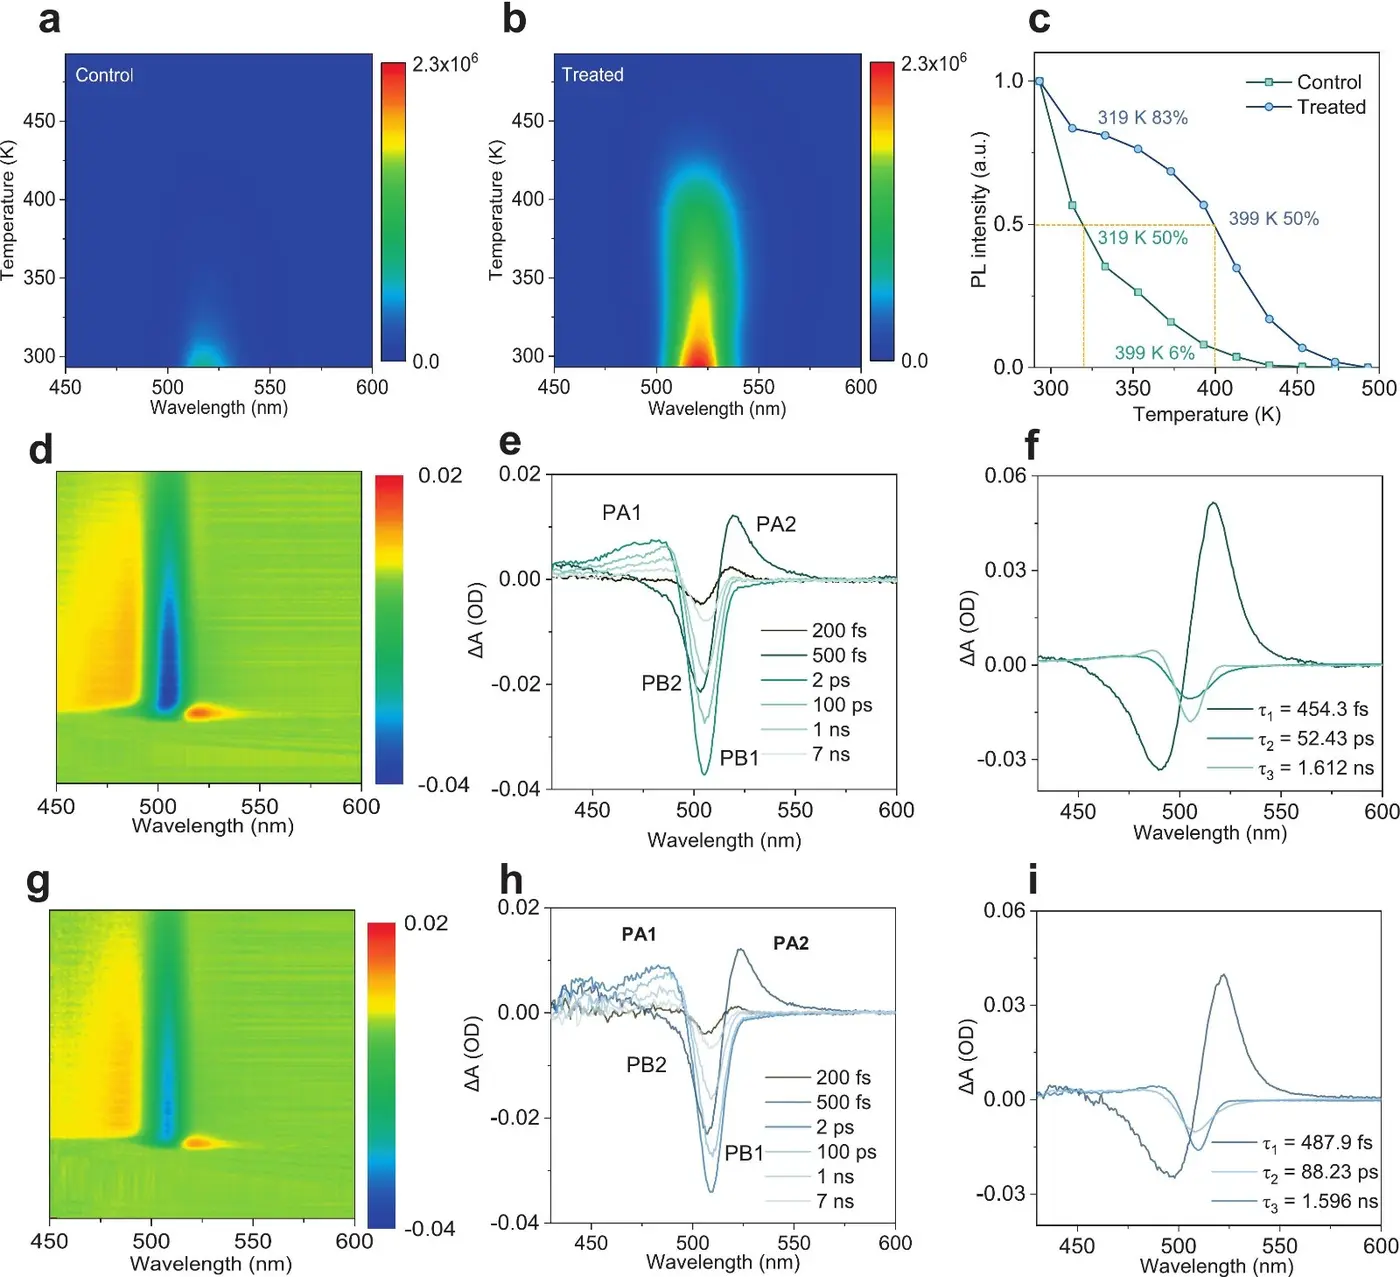
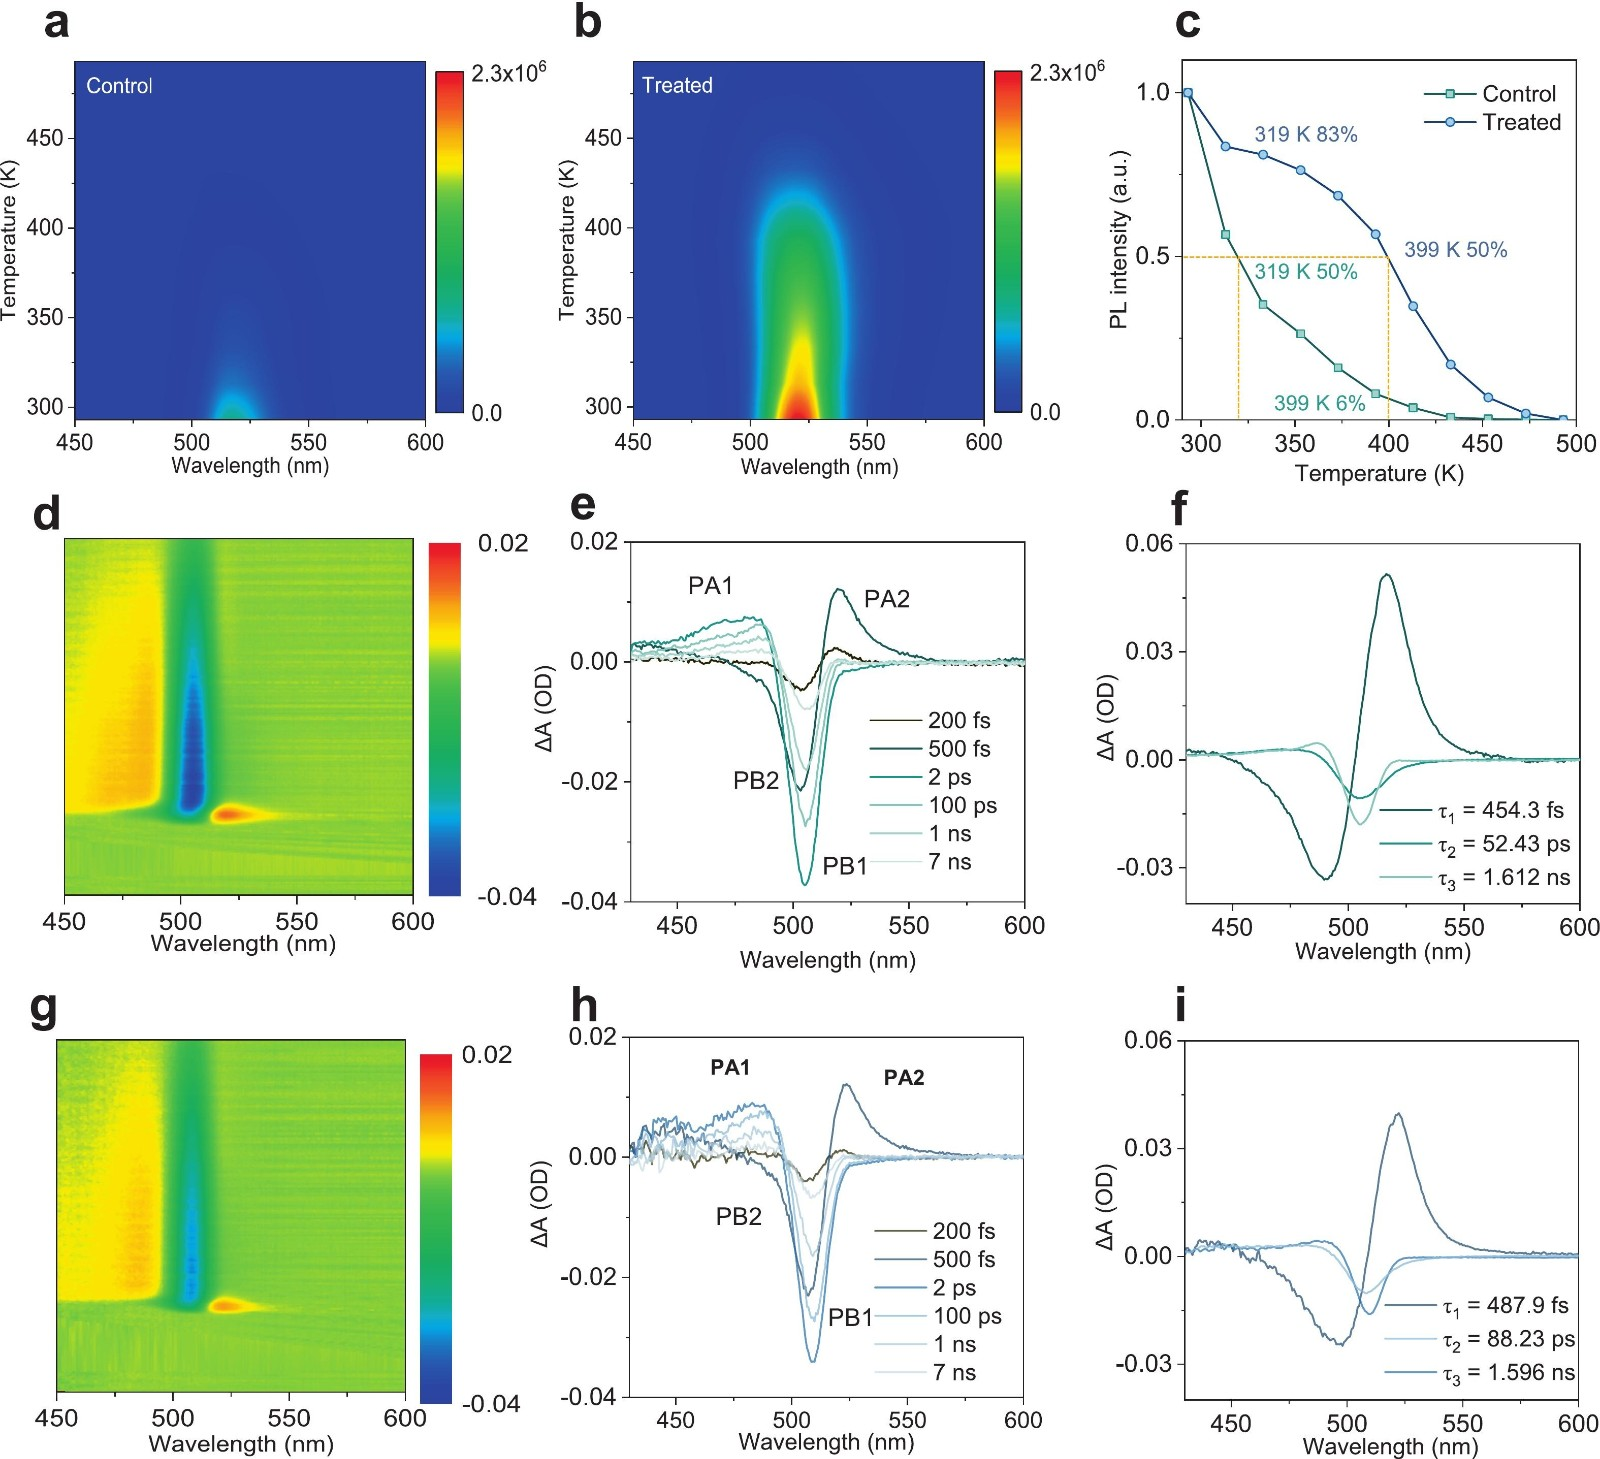
Deploying to gh-pages from @ Liya208/YingweiWang@ba40723b8ccee07f89f315543a2d829645db11bd 🚀

diff --git a/blog/2024/tabs/index.html b/blog/2024/tabs/index.html
@@ -15,15 +15,15 @@ Content 2
 <span class="cp">{%</span><span class="w"> </span><span class="nt">endtab</span><span class="w"> </span><span class="cp">%}</span>
 
 <span class="cp">{%</span><span class="w"> </span><span class="nt">endtabs</span><span class="w"> </span><span class="cp">%}</span>
-</code></pre></div></div> <p>With this you can generate visualizations like:</p> <ul id="log" class="tab" data-tab="b6cef5e6-4026-4e7b-b38a-d35c8b092e7a" data-name="log"> <li class="active" id="log-php"> <a href="#">php </a> </li> <li id="log-js"> <a href="#">js </a> </li> <li id="log-ruby"> <a href="#">ruby </a> </li> </ul> <ul class="tab-content" id="b6cef5e6-4026-4e7b-b38a-d35c8b092e7a" data-name="log"> <li class="active"> <div class="language-php highlighter-rouge"><div class="highlight"><pre class="highlight"><code><span class="nb">var_dump</span><span class="p">(</span><span class="s1">'hello'</span><span class="p">);</span>
+</code></pre></div></div> <p>With this you can generate visualizations like:</p> <ul id="log" class="tab" data-tab="8da1da86-ea60-49c8-870a-034587ede48d" data-name="log"> <li class="active" id="log-php"> <a href="#">php </a> </li> <li id="log-js"> <a href="#">js </a> </li> <li id="log-ruby"> <a href="#">ruby </a> </li> </ul> <ul class="tab-content" id="8da1da86-ea60-49c8-870a-034587ede48d" data-name="log"> <li class="active"> <div class="language-php highlighter-rouge"><div class="highlight"><pre class="highlight"><code><span class="nb">var_dump</span><span class="p">(</span><span class="s1">'hello'</span><span class="p">);</span>
 </code></pre></div></div> </li> <li> <div class="language-javascript highlighter-rouge"><div class="highlight"><pre class="highlight"><code><span class="nx">console</span><span class="p">.</span><span class="nf">log</span><span class="p">(</span><span class="dl">"</span><span class="s2">hello</span><span class="dl">"</span><span class="p">);</span>
 </code></pre></div></div> </li> <li> <div class="language-javascript highlighter-rouge"><div class="highlight"><pre class="highlight"><code><span class="nx">pputs</span> <span class="dl">'</span><span class="s1">hello</span><span class="dl">'</span>
-</code></pre></div></div> </li> </ul> <h2 id="another-example">Another example</h2> <ul id="data-struct" class="tab" data-tab="bff271ce-6c00-464e-86ad-fde5a4f83c1d" data-name="data-struct"> <li class="active" id="data-struct-yaml"> <a href="#">yaml </a> </li> <li id="data-struct-json"> <a href="#">json </a> </li> </ul> <ul class="tab-content" id="bff271ce-6c00-464e-86ad-fde5a4f83c1d" data-name="data-struct"> <li class="active"> <div class="language-yaml highlighter-rouge"><div class="highlight"><pre class="highlight"><code><span class="na">hello</span><span class="pi">:</span>
+</code></pre></div></div> </li> </ul> <h2 id="another-example">Another example</h2> <ul id="data-struct" class="tab" data-tab="e573564c-eb79-4e93-90dd-2582ef78ecd2" data-name="data-struct"> <li class="active" id="data-struct-yaml"> <a href="#">yaml </a> </li> <li id="data-struct-json"> <a href="#">json </a> </li> </ul> <ul class="tab-content" id="e573564c-eb79-4e93-90dd-2582ef78ecd2" data-name="data-struct"> <li class="active"> <div class="language-yaml highlighter-rouge"><div class="highlight"><pre class="highlight"><code><span class="na">hello</span><span class="pi">:</span>
   <span class="pi">-</span> <span class="s2">"</span><span class="s">whatsup"</span>
   <span class="pi">-</span> <span class="s2">"</span><span class="s">hi"</span>
 </code></pre></div></div> </li> <li> <div class="language-json highlighter-rouge"><div class="highlight"><pre class="highlight"><code><span class="p">{</span><span class="w">
   </span><span class="nl">"hello"</span><span class="p">:</span><span class="w"> </span><span class="p">[</span><span class="s2">"whatsup"</span><span class="p">,</span><span class="w"> </span><span class="s2">"hi"</span><span class="p">]</span><span class="w">
 </span><span class="p">}</span><span class="w">
-</span></code></pre></div></div> </li> </ul> <h2 id="tabs-for-something-else">Tabs for something else</h2> <ul id="something-else" class="tab" data-tab="930baf4d-10f4-4b97-850c-4200c7653ab7" data-name="something-else"> <li class="active" id="something-else-text"> <a href="#">text </a> </li> <li id="something-else-quote"> <a href="#">quote </a> </li> <li id="something-else-list"> <a href="#">list </a> </li> </ul> <ul class="tab-content" id="930baf4d-10f4-4b97-850c-4200c7653ab7" data-name="something-else"> <li class="active"> <p>Regular text</p> </li> <li> <blockquote> <p>A quote</p> </blockquote> </li> <li> <p>Hipster list</p> <ul> <li>brunch</li> <li>fixie</li> <li>raybans</li> <li>messenger bag</li> </ul> </li> </ul> </div> </article> <br> <hr> <br> <ul class="list-disc pl-8"></ul> <h2 class="text-3xl font-semibold mb-4 mt-12">Enjoy Reading This Article?</h2> <p class="mb-2">Here are some more articles you might like to read next:</p> <li class="my-2"> <a class="text-pink-700 underline font-semibold hover:text-pink-800" href="https://blog.google/technology/ai/google-gemini-update-flash-ai-assistant-io-2024/" target="_blank" rel="external nofollow noopener">Google Gemini updates: Flash 1.5, Gemma 2 and Project Astra</a> <svg width="1rem" height="1rem" viewbox="0 0 30 30" xmlns="http://www.w3.org/2000/svg"> <path d="M17 13.5v6H5v-12h6m3-3h6v6m0-6-9 9" class="icon_svg-stroke" stroke="#999" stroke-width="1.5" fill="none" fill-rule="evenodd" stroke-linecap="round" stroke-linejoin="round"></path> </svg> </li> <li class="my-2"> <a class="text-pink-700 underline font-semibold hover:text-pink-800" href="https://medium.com/@al-folio/displaying-external-posts-on-your-al-folio-blog-b60a1d241a0a?source=rss-17feae71c3c4------2" target="_blank" rel="external nofollow noopener">Displaying External Posts on Your al-folio Blog</a> <svg width="1rem" height="1rem" viewbox="0 0 30 30" xmlns="http://www.w3.org/2000/svg"> <path d="M17 13.5v6H5v-12h6m3-3h6v6m0-6-9 9" class="icon_svg-stroke" stroke="#999" stroke-width="1.5" fill="none" fill-rule="evenodd" stroke-linecap="round" stroke-linejoin="round"></path> </svg> </li> <li class="my-2"> <a class="text-pink-700 underline font-semibold hover:text-pink-800" href="/YingweiWang/blog/2026/advanced-images/">Welcome NSFC Distinguished Young Scholar Pan Shilie to CSU Physics Forum!</a> </li> <li class="my-2"> <a class="text-pink-700 underline font-semibold hover:text-pink-800" href="/YingweiWang/blog/2025/plotly/">a post with plotly.js</a> </li> <li class="my-2"> <a class="text-pink-700 underline font-semibold hover:text-pink-800" href="/YingweiWang/blog/2024/photo-gallery/">a post with image galleries</a> </li> </div> </div> <footer class="fixed-bottom" role="contentinfo"> <div class="container mt-0"> © Copyright 2026 Yingwei Wang. © 2026 Ultrafast Nonlinear Optics Research Group. Powered by Jekyll and al-folio. </div> </footer> <script src="https://cdn.jsdelivr.net/npm/jquery@3.6.0/dist/jquery.min.js" integrity="sha256-/xUj+3OJU5yExlq6GSYGSHk7tPXikynS7ogEvDej/m4=" crossorigin="anonymous"></script> <script src="/YingweiWang/assets/js/bootstrap.bundle.min.js"></script> <script src="https://cdn.jsdelivr.net/npm/mdbootstrap@4.20.0/js/mdb.min.js" integrity="sha256-NdbiivsvWt7VYCt6hYNT3h/th9vSTL4EDWeGs5SN3DA=" crossorigin="anonymous"></script> <script defer src="https://cdn.jsdelivr.net/npm/masonry-layout@4.2.2/dist/masonry.pkgd.min.js" integrity="sha256-Nn1q/fx0H7SNLZMQ5Hw5JLaTRZp0yILA/FRexe19VdI=" crossorigin="anonymous"></script> <script defer src="https://cdn.jsdelivr.net/npm/imagesloaded@5.0.0/imagesloaded.pkgd.min.js" integrity="sha256-htrLFfZJ6v5udOG+3kNLINIKh2gvoKqwEhHYfTTMICc=" crossorigin="anonymous"></script> <script defer src="/YingweiWang/assets/js/masonry.js?v=a0db7e5d5c70cc3252b3138b0c91dcaf" type="text/javascript"></script> <script defer src="https://cdn.jsdelivr.net/npm/medium-zoom@1.1.0/dist/medium-zoom.min.js" integrity="sha256-ZgMyDAIYDYGxbcpJcfUnYwNevG/xi9OHKaR/8GK+jWc=" crossorigin="anonymous"></script> <script defer src="/YingweiWang/assets/js/zoom.js?v=85ddb88934d28b74e78031fd54cf8308"></script> <script src="/YingweiWang/assets/js/no_defer.js?v=2781658a0a2b13ed609542042a859126"></script> <script defer src="/YingweiWang/assets/js/common.js?v=c15de51d4bb57887caa2c21988d97279"></script> <script defer src="/YingweiWang/assets/js/copy_code.js?v=c8a01c11a92744d44b093fc3bda915df" type="text/javascript"></script> <script defer src="/YingweiWang/assets/js/jupyter_new_tab.js?v=d9f17b6adc2311cbabd747f4538bb15f"></script> <script async src="https://d1bxh8uas1mnw7.cloudfront.net/assets/embed.js"></script> <script async src="https://badge.dimensions.ai/badge.js"></script> <script defer type="text/javascript" id="MathJax-script" src="https://cdn.jsdelivr.net/npm/mathjax@3.2.2/es5/tex-mml-chtml.js" integrity="sha256-MASABpB4tYktI2Oitl4t+78w/lyA+D7b/s9GEP0JOGI=" crossorigin="anonymous"></script> <script src="/YingweiWang/assets/js/mathjax-setup.js?v=a5bb4e6a542c546dd929b24b8b236dfd"></script> <script defer src="https://cdnjs.cloudflare.com/polyfill/v3/polyfill.min.js?features=es6" crossorigin="anonymous"></script> <script defer src="/YingweiWang/assets/js/progress-bar.js?v=2f30e0e6801ea8f5036fa66e1ab0a71a" type="text/javascript"></script> <script src="/YingweiWang/assets/js/tabs.min.js?v=b8748955e1076bbe0dabcf28f2549fdc"></script> <script src="/YingweiWang/assets/js/vanilla-back-to-top.min.js?v=f40d453793ff4f64e238e420181a1d17"></script> <script>
+</span></code></pre></div></div> </li> </ul> <h2 id="tabs-for-something-else">Tabs for something else</h2> <ul id="something-else" class="tab" data-tab="21da8b8b-6dea-436d-8a1d-3ea70c09b242" data-name="something-else"> <li class="active" id="something-else-text"> <a href="#">text </a> </li> <li id="something-else-quote"> <a href="#">quote </a> </li> <li id="something-else-list"> <a href="#">list </a> </li> </ul> <ul class="tab-content" id="21da8b8b-6dea-436d-8a1d-3ea70c09b242" data-name="something-else"> <li class="active"> <p>Regular text</p> </li> <li> <blockquote> <p>A quote</p> </blockquote> </li> <li> <p>Hipster list</p> <ul> <li>brunch</li> <li>fixie</li> <li>raybans</li> <li>messenger bag</li> </ul> </li> </ul> </div> </article> <br> <hr> <br> <ul class="list-disc pl-8"></ul> <h2 class="text-3xl font-semibold mb-4 mt-12">Enjoy Reading This Article?</h2> <p class="mb-2">Here are some more articles you might like to read next:</p> <li class="my-2"> <a class="text-pink-700 underline font-semibold hover:text-pink-800" href="https://blog.google/technology/ai/google-gemini-update-flash-ai-assistant-io-2024/" target="_blank" rel="external nofollow noopener">Google Gemini updates: Flash 1.5, Gemma 2 and Project Astra</a> <svg width="1rem" height="1rem" viewbox="0 0 30 30" xmlns="http://www.w3.org/2000/svg"> <path d="M17 13.5v6H5v-12h6m3-3h6v6m0-6-9 9" class="icon_svg-stroke" stroke="#999" stroke-width="1.5" fill="none" fill-rule="evenodd" stroke-linecap="round" stroke-linejoin="round"></path> </svg> </li> <li class="my-2"> <a class="text-pink-700 underline font-semibold hover:text-pink-800" href="https://medium.com/@al-folio/displaying-external-posts-on-your-al-folio-blog-b60a1d241a0a?source=rss-17feae71c3c4------2" target="_blank" rel="external nofollow noopener">Displaying External Posts on Your al-folio Blog</a> <svg width="1rem" height="1rem" viewbox="0 0 30 30" xmlns="http://www.w3.org/2000/svg"> <path d="M17 13.5v6H5v-12h6m3-3h6v6m0-6-9 9" class="icon_svg-stroke" stroke="#999" stroke-width="1.5" fill="none" fill-rule="evenodd" stroke-linecap="round" stroke-linejoin="round"></path> </svg> </li> <li class="my-2"> <a class="text-pink-700 underline font-semibold hover:text-pink-800" href="/YingweiWang/blog/2026/advanced-images/">Welcome NSFC Distinguished Young Scholar Pan Shilie to CSU Physics Forum!</a> </li> <li class="my-2"> <a class="text-pink-700 underline font-semibold hover:text-pink-800" href="/YingweiWang/blog/2025/plotly/">a post with plotly.js</a> </li> <li class="my-2"> <a class="text-pink-700 underline font-semibold hover:text-pink-800" href="/YingweiWang/blog/2024/photo-gallery/">a post with image galleries</a> </li> </div> </div> <footer class="fixed-bottom" role="contentinfo"> <div class="container mt-0"> © Copyright 2026 Yingwei Wang. © 2026 Ultrafast Nonlinear Optics Research Group. Powered by Jekyll and al-folio. </div> </footer> <script src="https://cdn.jsdelivr.net/npm/jquery@3.6.0/dist/jquery.min.js" integrity="sha256-/xUj+3OJU5yExlq6GSYGSHk7tPXikynS7ogEvDej/m4=" crossorigin="anonymous"></script> <script src="/YingweiWang/assets/js/bootstrap.bundle.min.js"></script> <script src="https://cdn.jsdelivr.net/npm/mdbootstrap@4.20.0/js/mdb.min.js" integrity="sha256-NdbiivsvWt7VYCt6hYNT3h/th9vSTL4EDWeGs5SN3DA=" crossorigin="anonymous"></script> <script defer src="https://cdn.jsdelivr.net/npm/masonry-layout@4.2.2/dist/masonry.pkgd.min.js" integrity="sha256-Nn1q/fx0H7SNLZMQ5Hw5JLaTRZp0yILA/FRexe19VdI=" crossorigin="anonymous"></script> <script defer src="https://cdn.jsdelivr.net/npm/imagesloaded@5.0.0/imagesloaded.pkgd.min.js" integrity="sha256-htrLFfZJ6v5udOG+3kNLINIKh2gvoKqwEhHYfTTMICc=" crossorigin="anonymous"></script> <script defer src="/YingweiWang/assets/js/masonry.js?v=a0db7e5d5c70cc3252b3138b0c91dcaf" type="text/javascript"></script> <script defer src="https://cdn.jsdelivr.net/npm/medium-zoom@1.1.0/dist/medium-zoom.min.js" integrity="sha256-ZgMyDAIYDYGxbcpJcfUnYwNevG/xi9OHKaR/8GK+jWc=" crossorigin="anonymous"></script> <script defer src="/YingweiWang/assets/js/zoom.js?v=85ddb88934d28b74e78031fd54cf8308"></script> <script src="/YingweiWang/assets/js/no_defer.js?v=2781658a0a2b13ed609542042a859126"></script> <script defer src="/YingweiWang/assets/js/common.js?v=c15de51d4bb57887caa2c21988d97279"></script> <script defer src="/YingweiWang/assets/js/copy_code.js?v=c8a01c11a92744d44b093fc3bda915df" type="text/javascript"></script> <script defer src="/YingweiWang/assets/js/jupyter_new_tab.js?v=d9f17b6adc2311cbabd747f4538bb15f"></script> <script async src="https://d1bxh8uas1mnw7.cloudfront.net/assets/embed.js"></script> <script async src="https://badge.dimensions.ai/badge.js"></script> <script defer type="text/javascript" id="MathJax-script" src="https://cdn.jsdelivr.net/npm/mathjax@3.2.2/es5/tex-mml-chtml.js" integrity="sha256-MASABpB4tYktI2Oitl4t+78w/lyA+D7b/s9GEP0JOGI=" crossorigin="anonymous"></script> <script src="/YingweiWang/assets/js/mathjax-setup.js?v=a5bb4e6a542c546dd929b24b8b236dfd"></script> <script defer src="https://cdnjs.cloudflare.com/polyfill/v3/polyfill.min.js?features=es6" crossorigin="anonymous"></script> <script defer src="/YingweiWang/assets/js/progress-bar.js?v=2f30e0e6801ea8f5036fa66e1ab0a71a" type="text/javascript"></script> <script src="/YingweiWang/assets/js/tabs.min.js?v=b8748955e1076bbe0dabcf28f2549fdc"></script> <script src="/YingweiWang/assets/js/vanilla-back-to-top.min.js?v=f40d453793ff4f64e238e420181a1d17"></script> <script>
     addBackToTop();
   </script> <script type="module" src="/YingweiWang/assets/js/search/ninja-keys.min.js?v=a3446f084dcaecc5f75aa1757d087dcf"></script> <ninja-keys hidebreadcrumbs noautoloadmdicons placeholder="Type to start searching"></ninja-keys> <script src="/YingweiWang/assets/js/search-setup.js?v=6c304f7b1992d4b60f7a07956e52f04a"></script> <script src="/YingweiWang/assets/js/search-data.js"></script> <script src="/YingweiWang/assets/js/shortcut-key.js?v=ccc841c459bfc0e64c1c2b5acd10df02"></script> </body> </html>